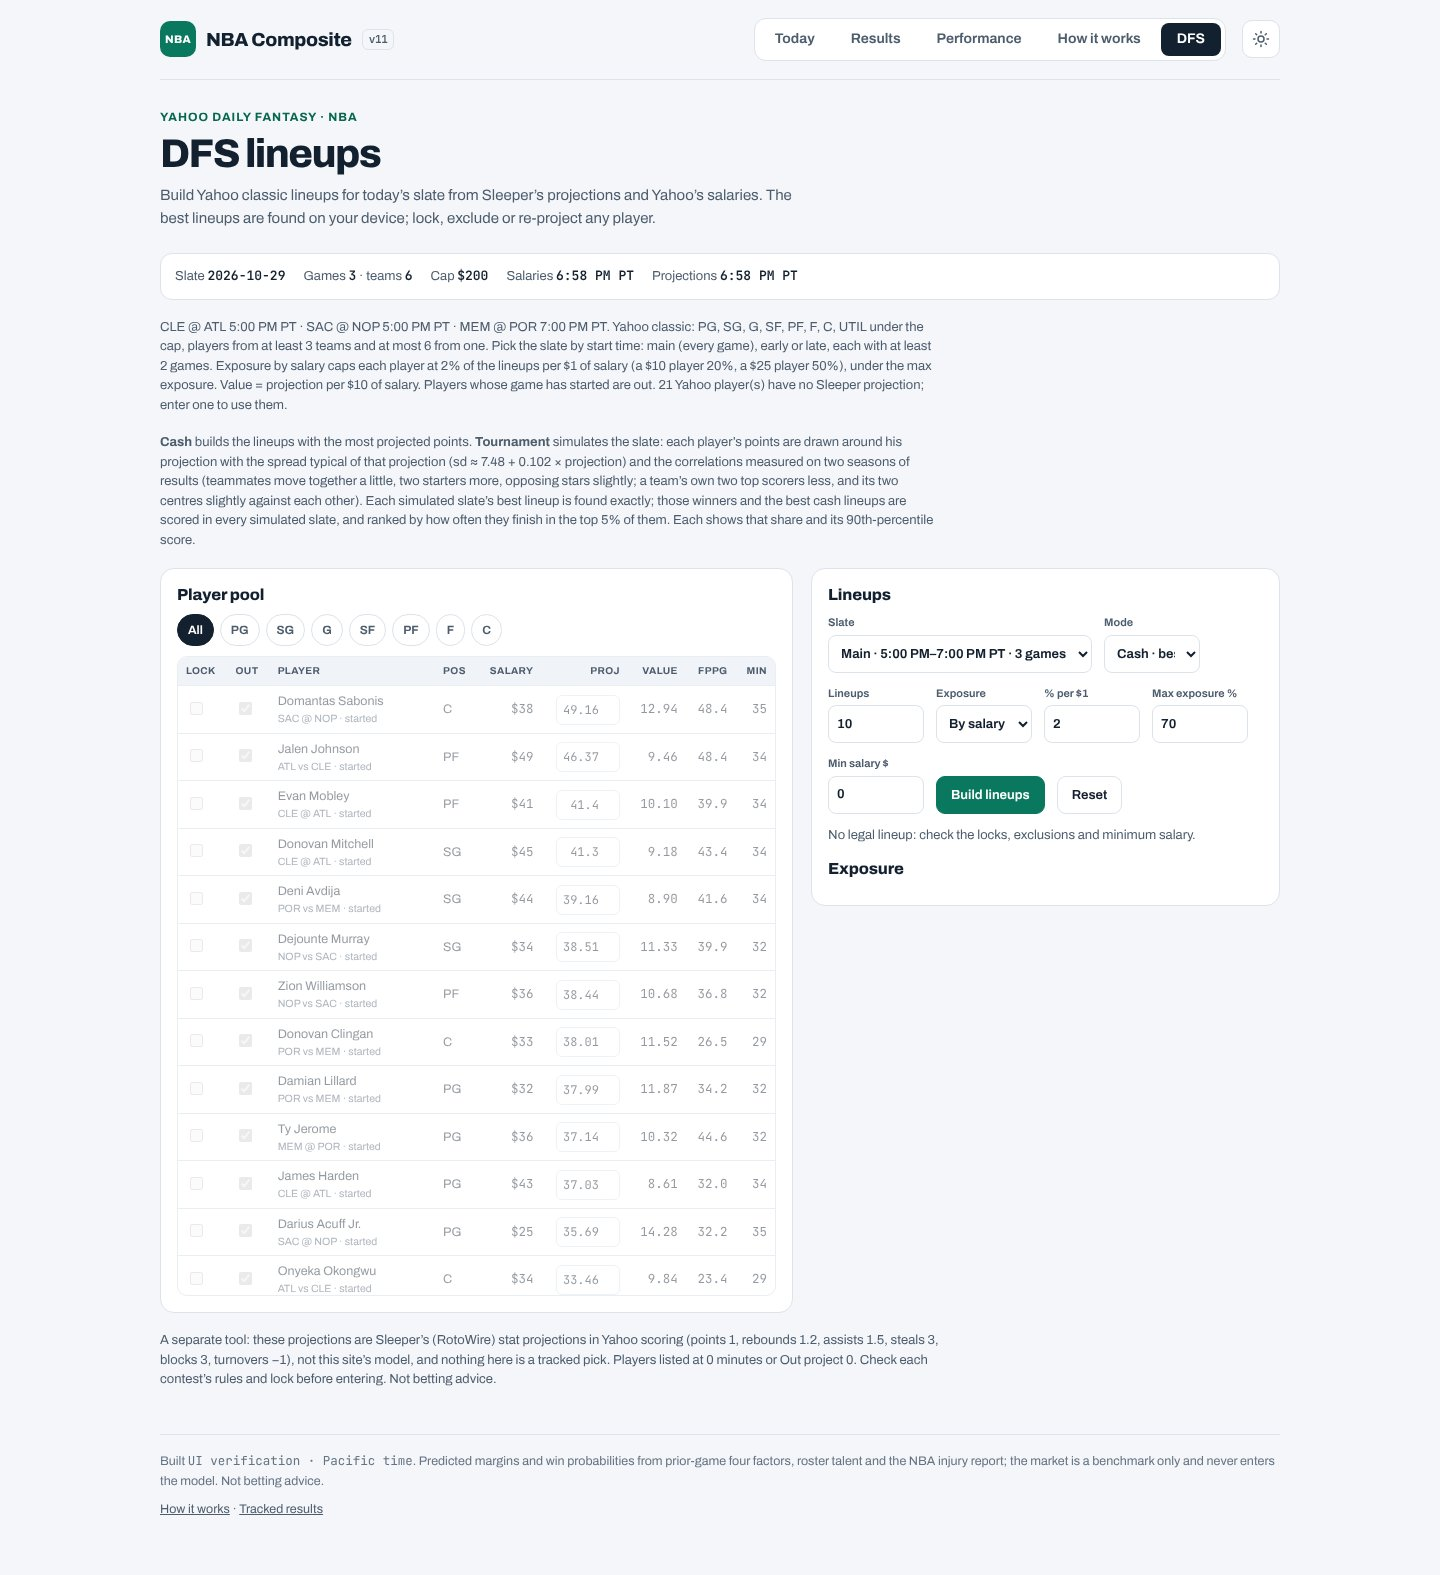
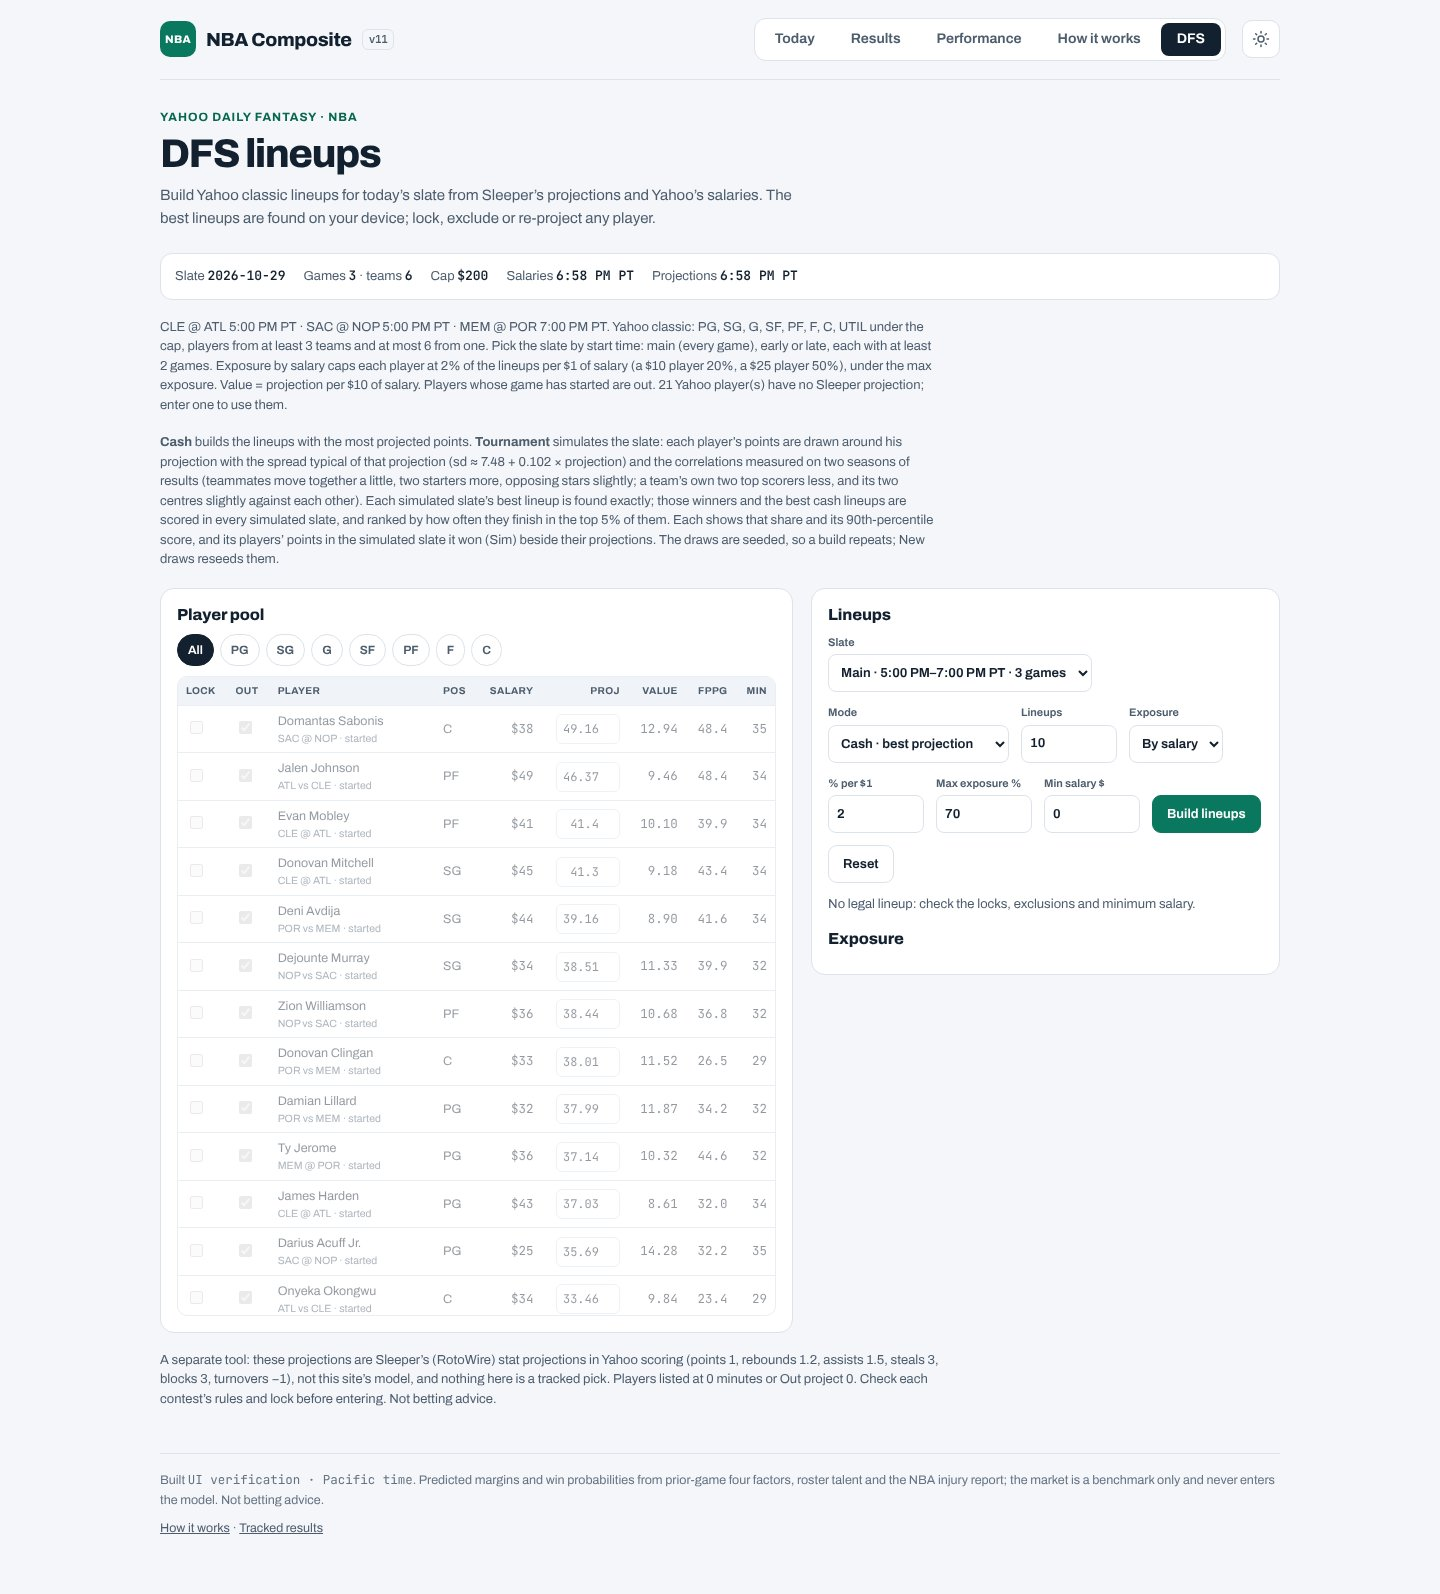
DFS tournament: show each lineup's winning-slate points; New draws
Owner's question: the simulation redraws every player's points in each
slate, but the cards showed only projections, the same in every lineup.

- Each tournament lineup now shows its players' points in the simulated
  slate it won (Sim, beside Proj) and that slate's total; a candidate that
  never won (from the cash lists) shows its best slate, labelled so.
  simulate() records the slate a lineup first won and exposes each
  player's simulated points (value).
- New draws reseeds the simulation; the seed is in the status line so a
  build can be reproduced; Reset returns to the default seed (356).
- Menus size to their text (Mode and Exposure were clipped on phones).

Tests: every winner scores at least every other candidate in the slate it
won, and its players' draws sum to its score there; the UI check finds the
Sim column on all 10 lineups and a new seed after New draws, then the
default after Reset.

Claude-Session: https://claude.ai/code/session_01Tymo9A874w1j1dz2D4UFzh

diff --git a/dfs.py b/dfs.py
@@ -263,7 +263,7 @@ CSS = """
 .dfs-panel h2{font-size:16px;margin:0 0 10px;letter-spacing:-.01em;text-transform:none}
 .dfs-controls{display:flex;flex-wrap:wrap;gap:12px;align-items:end;margin-bottom:12px}
 .dfs-controls label{font-size:11px;color:var(--muted);font-weight:650}
-.dfs-controls #dfs-slate{width:auto;max-width:100%}
+.dfs-controls select{width:auto !important;max-width:100%}
 .dfs-controls input,.dfs-controls select{display:block;margin-top:4px;min-height:38px;width:96px;border:1px solid var(--line);border-radius:8px;padding:6px 8px;background:var(--surface);color:var(--ink);font:inherit;font-size:13px}
 .dfs-btn{min-height:38px;padding:0 14px;border-radius:9px;border:1px solid var(--line);background:var(--surface);color:var(--ink);font:650 13px var(--sans);cursor:pointer}
 .dfs-btn.primary{background:rgb(var(--accent));border-color:rgb(var(--accent));color:var(--accent-on)}
@@ -289,6 +289,9 @@ CSS = """
 .dfs-lineup li span:first-child{font:600 11px var(--mono);color:var(--muted)}
 .dfs-lineup li .n{text-align:right;font-family:var(--mono)}
 .dfs-lineup li em{font-style:normal;color:var(--muted);font-size:11px}
+.dfs-lineup li.sim{grid-template-columns:40px minmax(0,1fr) 40px 46px 46px}
+.dfs-lineup li.hd{border-top:0;font-size:10px;letter-spacing:.04em;text-transform:uppercase;color:var(--muted)}
+.dfs-lineup li .s{color:rgb(var(--accent-tx))}
 .dfs-msg{font-size:13px;color:var(--muted);margin:8px 0}
 .dfs-exp{font-size:12px;columns:2;column-gap:16px;margin:8px 0 0;padding:0;list-style:none}
 .dfs-exp li{display:flex;justify-content:space-between;gap:8px;break-inside:avoid;padding:2px 0}
@@ -338,6 +341,7 @@ def body(data, ui):
                 "<label>Mode<select id='dfs-mode' aria-label='Contest type'><option value='cash'>Cash · best projection</option>"
                 "<option value='gpp'>Tournament · simulated</option></select></label>"
                 "<label id='dfs-sims-l' hidden>Sims<input type='number' id='dfs-sims' min='100' max='2000' step='100' value='500'></label>"
+                "<button type='button' class='dfs-btn' id='dfs-reseed' hidden>New draws</button>"
                 "<label>Lineups<input type='number' id='dfs-n' min='1' max='20' value='10'></label>"
                 "<label>Exposure<select id='dfs-exprule' aria-label='Exposure rule'><option value='salary'>By salary</option>"
                 "<option value='flat'>Flat</option></select></label>"
@@ -372,7 +376,9 @@ def body(data, ui):
             "and its two centres slightly against each other). "
             "Each simulated slate’s best lineup is found exactly; those winners and the best cash "
             "lineups are scored in every simulated slate, and ranked by how often they finish in the top "
-            "5% of them. Each shows that share and its 90th-percentile score.</p>"
+            "5% of them. Each shows that share and its 90th-percentile score, and its players’ points in "
+            "the simulated slate it won (Sim) beside their projections. The draws are seeded, so a "
+            "build repeats; New draws reseeds them.</p>"
             "<noscript><p class='public-note'>The optimizer needs JavaScript.</p></noscript>"
             "<div class='dfs-grid'>" + pool + out + "</div>" + note
             + f"<script type='application/json' id='dfs-data'>{payload}</script>"
@@ -464,16 +470,18 @@ function draw(P,M,r){var f={},out=new Float64Array(P.length);function F(k){if(!(
 // S simulated slates, each solved exactly (ok(ids): the team rules). Returns
 // the distinct winning lineups and every draw, so any lineup can be scored
 // in each slate (rank).
-function simulate(P,cap,minSal,lock,M,S,seed,ok){var r=rng(seed),cnt={},ids={},vals=new Float64Array(S*P.length);
+function simulate(P,cap,minSal,lock,M,S,seed,ok){var r=rng(seed),cnt={},ids={},won={},vals=new Float64Array(S*P.length);
  for(var s=0;s<S;s++){var x=draw(P,M,r),Q=P.map(function(p,i){return {id:p.id,pos:p.pos,sal:p.sal,v:x[i]};});vals.set(x,s*P.length);
   var b=kbest(Q,cap,minSal,lock,1,function(sol){return ok(sol.ids);},200).lineups[0];if(!b)continue;
-  var key=b.ids.slice().sort().join();cnt[key]=(cnt[key]||0)+1;ids[key]=b.ids;}
+  var key=b.ids.slice().sort().join();if(!(key in cnt))won[key]=s;cnt[key]=(cnt[key]||0)+1;ids[key]=b.ids;}
  var idx={};P.forEach(function(p,i){idx[p.id]=i;});
  var mean=function(l){return l.reduce(function(t,id){return t+P[idx[id]].v;},0);};
- var cands=Object.keys(cnt).map(function(k){return {ids:ids[k],n:cnt[k],v:mean(ids[k]),sal:ids[k].reduce(function(t,id){return t+P[idx[id]].sal;},0)};})
+ var cands=Object.keys(cnt).map(function(k){return {ids:ids[k],n:cnt[k],won:won[k],v:mean(ids[k]),sal:ids[k].reduce(function(t,id){return t+P[idx[id]].sal;},0)};})
   .sort(function(a,b){return b.n-a.n||b.v-a.v;});
  function scores(l){var out=new Float64Array(S);for(var s=0;s<S;s++){var t=0;for(var j=0;j<l.length;j++)t+=vals[s*P.length+idx[l[j]]];out[s]=t;}return out;}
- return {cands:cands,sims:S,scores:scores};}
+ // a player's simulated points in slate s
+ function value(s,id){return vals[s*P.length+idx[id]];}
+ return {cands:cands,sims:S,scores:scores,value:value};}
 // Tournament ranking: in each simulated slate, the candidates (the winners
 // plus any added) scoring in the top `frac` of all candidates; a lineup's
 // share of slates in that group (c.top) and its 90th-percentile score
@@ -492,7 +500,7 @@ return {solve:solve,kbest:kbest,teamsOk:teamsOk,rng:rng,draw:draw,simulate:simul
 UI_JS = r"""
 (function(){
 var D=JSON.parse(document.getElementById('dfs-data').textContent);
-var st={lock:{},out:{},proj:{},pos:'ALL',slate:null};
+var st={lock:{},out:{},proj:{},pos:'ALL',slate:null,seed:D.sim.seed};
 function $(id){return document.getElementById(id);}
 // Slates by start time: Yahoo's feed lists the day's games with one cap, not
 // its contests, so the choices are main (every game), early (games up to a
@@ -534,13 +542,17 @@ function cash(all,team,N,cap,minSal,lock){var cnt={},made={},L=[];
 // candidates' top 5%, kept while every non-locked player stays under the cap.
 function gpp(all,team,N,cap,minSal,lock){var S=Math.max(100,Math.min(2000,+$('dfs-sims').value||500)),cnt={},L=[];
  var ok=function(ids){return DFS.teamsOk(ids,team,D.min_teams,D.max_per_team);};
- var res=DFS.simulate(all,D.cap,minSal,lock,D.sim,S,D.sim.seed,ok),seen={},cands=[];
+ var res=DFS.simulate(all,D.cap,minSal,lock,D.sim,S,st.seed,ok),seen={},cands=[];
  res.cands.concat(DFS.kbest(all,D.cap,minSal,lock,20,function(sol){return ok(sol.ids);},400).lineups,
   cash(all,team,N,cap,minSal,lock).L).forEach(function(c){
-  var k=c.ids.slice().sort().join();if(!seen[k]){seen[k]=1;cands.push({ids:c.ids,v:c.v,sal:c.sal});}});
+  var k=c.ids.slice().sort().join();if(!seen[k]){seen[k]=1;cands.push({ids:c.ids,v:c.v,sal:c.sal,won:c.won});}});
  DFS.rank(cands,res,.05).forEach(function(c){if(L.length>=N||!c.ids.every(function(i){return lock[i]||(cnt[i]||0)<cap[i];}))return;
   L.push(c);c.ids.forEach(function(i){cnt[i]=(cnt[i]||0)+1;});});
- return {L:L,cnt:cnt,note:S+' simulated slates · '+cands.length+' candidate lineups'};}
+ // the simulated slate each lineup shows: the one it won, else its best one
+ L.forEach(function(l){var sc=res.scores(l.ids),s=l.won;
+  if(s===undefined){s=0;for(var t=1;t<S;t++)if(sc[t]>sc[s])s=t;}
+  l.slate=s;l.sim={};l.ids.forEach(function(id){l.sim[id]=res.value(s,id);});l.simTotal=sc[s];});
+ return {L:L,cnt:cnt,note:S+' simulated slates (seed '+st.seed+') · '+cands.length+' candidate lineups'};}
 // Each player's exposure cap, in lineups: the max exposure %, or by salary
 // k x salary % (2 x: a $10 player 20%, a $25 player 50%) under that max.
 function capShare(p){var mx=Math.max(10,Math.min(100,+$('dfs-exp').value||100))/100,k=Math.max(0,+$('dfs-k').value||0);
@@ -552,8 +564,11 @@ function build(){var all=pool(),byId={},team={};D.players.forEach(function(p){by
  var R=($('dfs-mode').value==='gpp'?gpp:cash)(all,team,N,cap,minSal,lock),L=R.L,cnt=R.cnt,el=$('dfs-out');
  if(!L.length){el.innerHTML='';$('dfs-exposure').innerHTML='';$('dfs-msg').textContent='No legal lineup: check the locks, exclusions and minimum salary.';return;}
  $('dfs-msg').textContent=L.length+' lineup'+(L.length>1?'s':'')+(R.note?' · '+R.note:' · best '+L[0].v.toFixed(2)+' pts')+(L.length<N?' · fewer than asked under these caps':'')+' · '+Math.round(performance.now()-t0)+' ms';
- el.innerHTML=L.map(function(l,i){return "<article class='dfs-lineup'><header><span>#"+(i+1)+(l.top!==undefined?" · top 5% in <b>"+(100*l.top).toFixed(0)+"%</b> · p90 <b>"+l.p90.toFixed(1)+"</b>":"")+"</span><span>$<b>"+l.sal+"</b> · <b>"+l.v.toFixed(2)+"</b> pts</span></header><ol>"+
-  slots(l.ids,byId).map(function(x){var p=x[1];return "<li><span>"+x[0]+"</span><span>"+esc(p.name)+" <em>"+esc(p.team)+"</em></span><span class='n'>$"+p.sal+"</span><span class='n'>"+proj(p).toFixed(1)+"</span></li>";}).join('')+"</ol></article>";}).join('');
+ el.innerHTML=L.map(function(l,i){var sim=!!l.sim;return "<article class='dfs-lineup'><header><span>#"+(i+1)+(l.top!==undefined?" · top 5% in <b>"+(100*l.top).toFixed(0)+"%</b> · p90 <b>"+l.p90.toFixed(1)+"</b>":"")+"</span><span>$<b>"+l.sal+"</b> · <b>"+l.v.toFixed(2)+"</b> pts</span></header>"+
+  (sim?"<p class='dfs-msg' style='margin:0 0 4px'>"+(l.won!==undefined?"Won":"Best in")+" simulated slate "+(l.slate+1)+": <b class='mono'>"+l.simTotal.toFixed(1)+"</b> pts</p>":"")+"<ol>"+
+  (sim?"<li class='hd sim'><span></span><span></span><span></span><span class='n'>Proj</span><span class='n'>Sim</span></li>":"")+
+  slots(l.ids,byId).map(function(x){var p=x[1];return "<li"+(sim?" class='sim'":"")+"><span>"+x[0]+"</span><span>"+esc(p.name)+" <em>"+esc(p.team)+"</em></span><span class='n'>$"+p.sal+"</span><span class='n'>"+proj(p).toFixed(1)+"</span>"+
+   (sim?"<span class='n s'>"+l.sim[p.id].toFixed(1)+"</span>":"")+"</li>";}).join('')+"</ol></article>";}).join('');
  var ex=Object.keys(cnt).sort(function(a,b){return cnt[b]-cnt[a]||byId[a].name.localeCompare(byId[b].name);});
  $('dfs-exposure').innerHTML=ex.map(function(id){return "<li><span>"+esc(byId[id].name)+"</span><b class='mono'>"+Math.round(100*cnt[id]/L.length)+"%"+
   (lock[id]?" · locked":" <small>/ "+Math.round(100*cap[id]/N)+"%</small>")+"</b></li>";}).join('');}
@@ -575,10 +590,11 @@ var SL=slates(),sel=$('dfs-slate');st.slate=SL[0]||null;
 sel.innerHTML=SL.map(function(o){return "<option value='"+o.key+"'>"+esc(o.label)+"</option>";}).join('')||"<option>No slate with 2+ games</option>";
 sel.disabled=SL.length<2;
 sel.addEventListener('change',function(){st.slate=SL.filter(function(o){return o.key===sel.value;})[0]||null;draw();run();});
-$('dfs-mode').addEventListener('change',function(){$('dfs-sims-l').hidden=this.value!=='gpp';run();});
+$('dfs-mode').addEventListener('change',function(){$('dfs-sims-l').hidden=$('dfs-reseed').hidden=this.value!=='gpp';run();});
+$('dfs-reseed').addEventListener('click',function(){st.seed=1+Math.floor(Math.random()*2147483646);run();});
 $('dfs-exprule').addEventListener('change',function(){$('dfs-k-l').hidden=this.value!=='salary';run();});
 $('dfs-go').addEventListener('click',run);
-$('dfs-reset').addEventListener('click',function(){st.lock={};st.out={};st.proj={};draw();run();});
+$('dfs-reset').addEventListener('click',function(){st.lock={};st.out={};st.proj={};st.seed=D.sim.seed;draw();run();});
 draw();run();
 })();
 """

diff --git a/research/check_public_ui.py b/research/check_public_ui.py
@@ -185,7 +185,7 @@ def main():
                     # exposure by salary: at most floor(10 x min(70%, 2% per $1)) lineups per player
                     counts = """() => { const D = JSON.parse(document.getElementById('dfs-data').textContent), sal = {};
                         D.players.forEach(p => sal[p.name] = p.sal); const n = {};
-                        document.querySelectorAll('.dfs-lineup li span:nth-child(2)').forEach(s => {
+                        document.querySelectorAll('.dfs-lineup li:not(.hd) span:nth-child(2)').forEach(s => {
                           const name = s.childNodes[0].textContent.trim(); n[name] = (n[name] || 0) + 1; });
                         return Object.entries(n).map(([k, v]) => [k, v, sal[k]]); }"""
                     for mode in ('cash', 'gpp'):
@@ -201,8 +201,17 @@ def main():
                     page.select_option('#dfs-exprule', 'salary')
                     page.select_option('#dfs-mode', 'gpp')
                     page.wait_for_function("/simulated slates/.test(document.getElementById('dfs-msg').textContent)")
+                    # each tournament lineup shows its players' points in the slate it won
+                    assert page.locator('.dfs-lineup li.sim:not(.hd)').count() == 80
+                    assert page.locator('.dfs-lineup', has_text='simulated slate').count() == 10
+                    seed = page.locator('#dfs-msg').inner_text()
+                    page.click('#dfs-reseed')
+                    page.wait_for_function(f"document.getElementById('dfs-msg').textContent !== {json.dumps(seed)} && /seed/.test(document.getElementById('dfs-msg').textContent)")
+                    assert page.locator('.dfs-lineup').count() == 10
+                    page.click('#dfs-reset')
+                    page.wait_for_function("/seed 356\\)/.test(document.getElementById('dfs-msg').textContent)")
                     page.screenshot(path=str(out/f'{device}-fixture-dfs.jpg'),full_page=True,type='jpeg',quality=85)
-                    checks.append(f'{device}: DFS fixture · Main, Early and Late slates each build 10 lineups from their own games; tournament mode builds 10 simulated lineups; exposure by salary (2% per $1, max 70%) and flat caps hold in both modes')
+                    checks.append(f'{device}: DFS fixture · Main, Early and Late slates each build 10 lineups from their own games; tournament mode builds 10 simulated lineups; exposure by salary (2% per $1, max 70%) and flat caps hold in both modes; tournament lineups show the points of the slate they won; New draws reseeds')
                 assert not errors,errors
                 # Live-score overlay may update status/score only, never a selection.
                 page.unroute_all()

diff --git a/tests/test_dfs.py b/tests/test_dfs.py
@@ -305,3 +305,20 @@ process.stdout.write(JSON.stringify({best:top[0].ids.slice().sort(),flat:flat.ma
     tops = [t for t, _, _ in out["sim"]]
     assert tops == sorted(tops, reverse=True) and 0 < tops[0] <= 1
     assert all(p90 >= v for _, p90, v in out["sim"])      # the 90th percentile is above the mean
+
+
+@pytest.mark.skipif(NODE is None, reason="node is not installed")
+def test_each_winner_is_best_in_the_slate_it_won_and_shows_its_draws():
+    pool = _sim_pool()
+    out = _node_js("""
+var team={};I.pool.forEach(function(p){team[p.id]=p.team;});var ok=function(ids){return DFS.teamsOk(ids,team,3,6);};
+var res=DFS.simulate(I.pool,200,0,{},I.sim,150,9,ok),bad=[],sums=[];
+res.cands.forEach(function(c){var mine=res.scores(c.ids)[c.won];
+ res.cands.forEach(function(o){if(res.scores(o.ids)[c.won]>mine+1e-9)bad.push([c.won,mine]);});
+ var t=c.ids.reduce(function(a,id){return a+res.value(c.won,id);},0);sums.push(Math.abs(t-mine));});
+process.stdout.write(JSON.stringify({bad:bad,maxdiff:Math.max.apply(null,sums),
+ won:res.cands.map(function(c){return c.won;}),n:res.cands.map(function(c){return c.n;})}));""",
+        dict(pool=pool, sim=dfs.SIM))
+    assert out["bad"] == []                       # no candidate beats a winner in its own slate
+    assert out["maxdiff"] < 1e-9                  # per-player draws add up to the lineup's score
+    assert all(0 <= w < 150 for w in out["won"]) and sum(out["n"]) == 150
